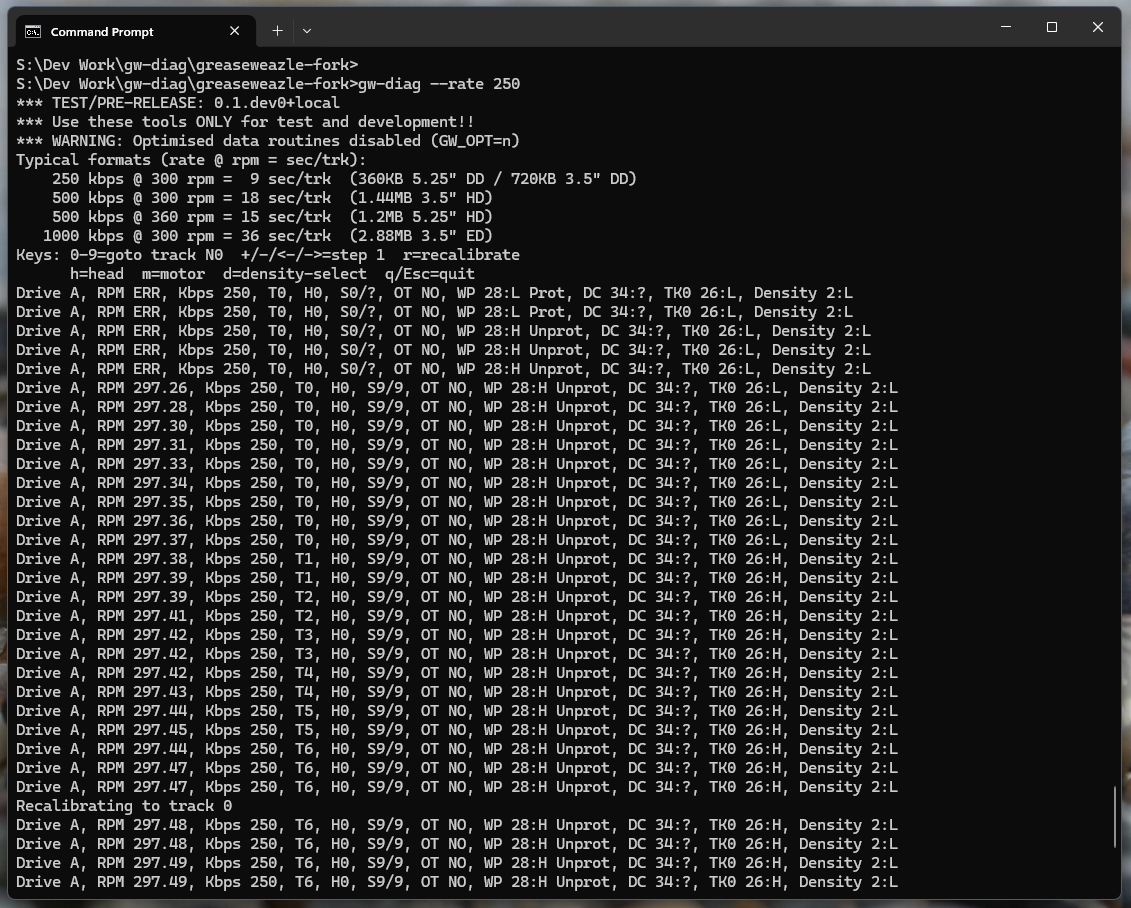
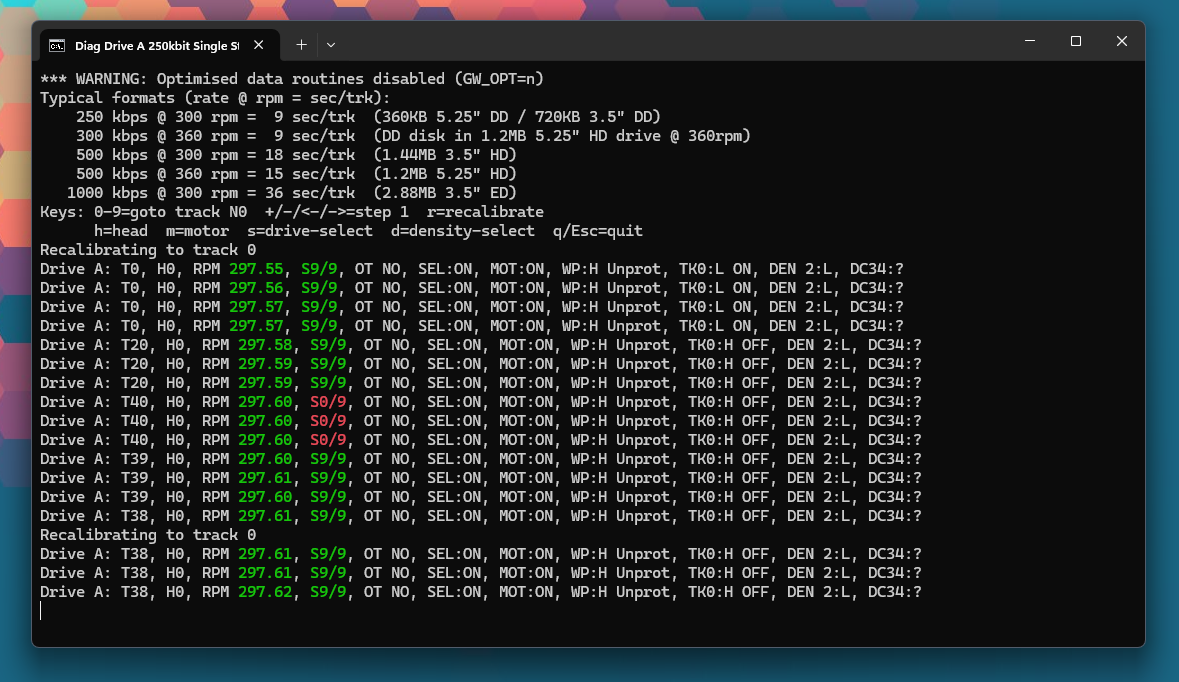
README: update screenshot and caption to match current output
Replace the outdated track-0 capture with one stepping across the disk
(T0 through T40 and a recalibrate), and reword the caption to describe
it, including the two dropped reads at track 40. The new capture already
uses the current field order, so drop the note about the layout having
changed since the screenshot was taken.

diff --git a/README.md b/README.md
@@ -37,17 +37,17 @@ single track, `r` recalibrates, `h` toggles head, `m` toggles the motor,
 gate their head load/unload solenoid off drive-select rather than
 motor-on), `d` toggles density-select, and `q` / `Esc` quits.
 
-![gw diag printing a live status line per read, all sectors decoding cleanly](screenshots/gw-diag.png)
+![gw diag stepping across a disk, most tracks reading cleanly with two failed reads at track 40](screenshots/gw-diag.png)
 
-*Reading track 0 of a 5.25-inch 360K disk at 250 kbps. All nine sectors
-decode cleanly (`S9/9`) with no off-track sectors (`OT NO`), and the spindle
-holds a steady ~297 rpm: a healthy drive reading a healthy disk.*
+*Stepping across a single-sided 5.25-inch disk at 250 kbps. Most tracks read
+clean (green `S9/9`) with no off-track sectors (`OT NO`), track 40 dropped two
+reads (red `S0/9`), and the spindle holds a steady ~297 rpm. `TK0` reads `ON`
+only at track 0, and `r` recalibrates the head back there.*
 
 ### Reading the live status line
 
 Each line is one fresh read of the track currently under the head, printed a
-few times a second. (The field order/labels below have been tightened up a
-little since the screenshot above was taken -- the information is the same.)
+few times a second.
 
 ```
 Drive A: T0, H0, RPM 297.30, S9/9, OT NO, SEL:ON, MOT:ON, WP:H Unprot, TK0:L ON, DEN 2:L, DC34:?
